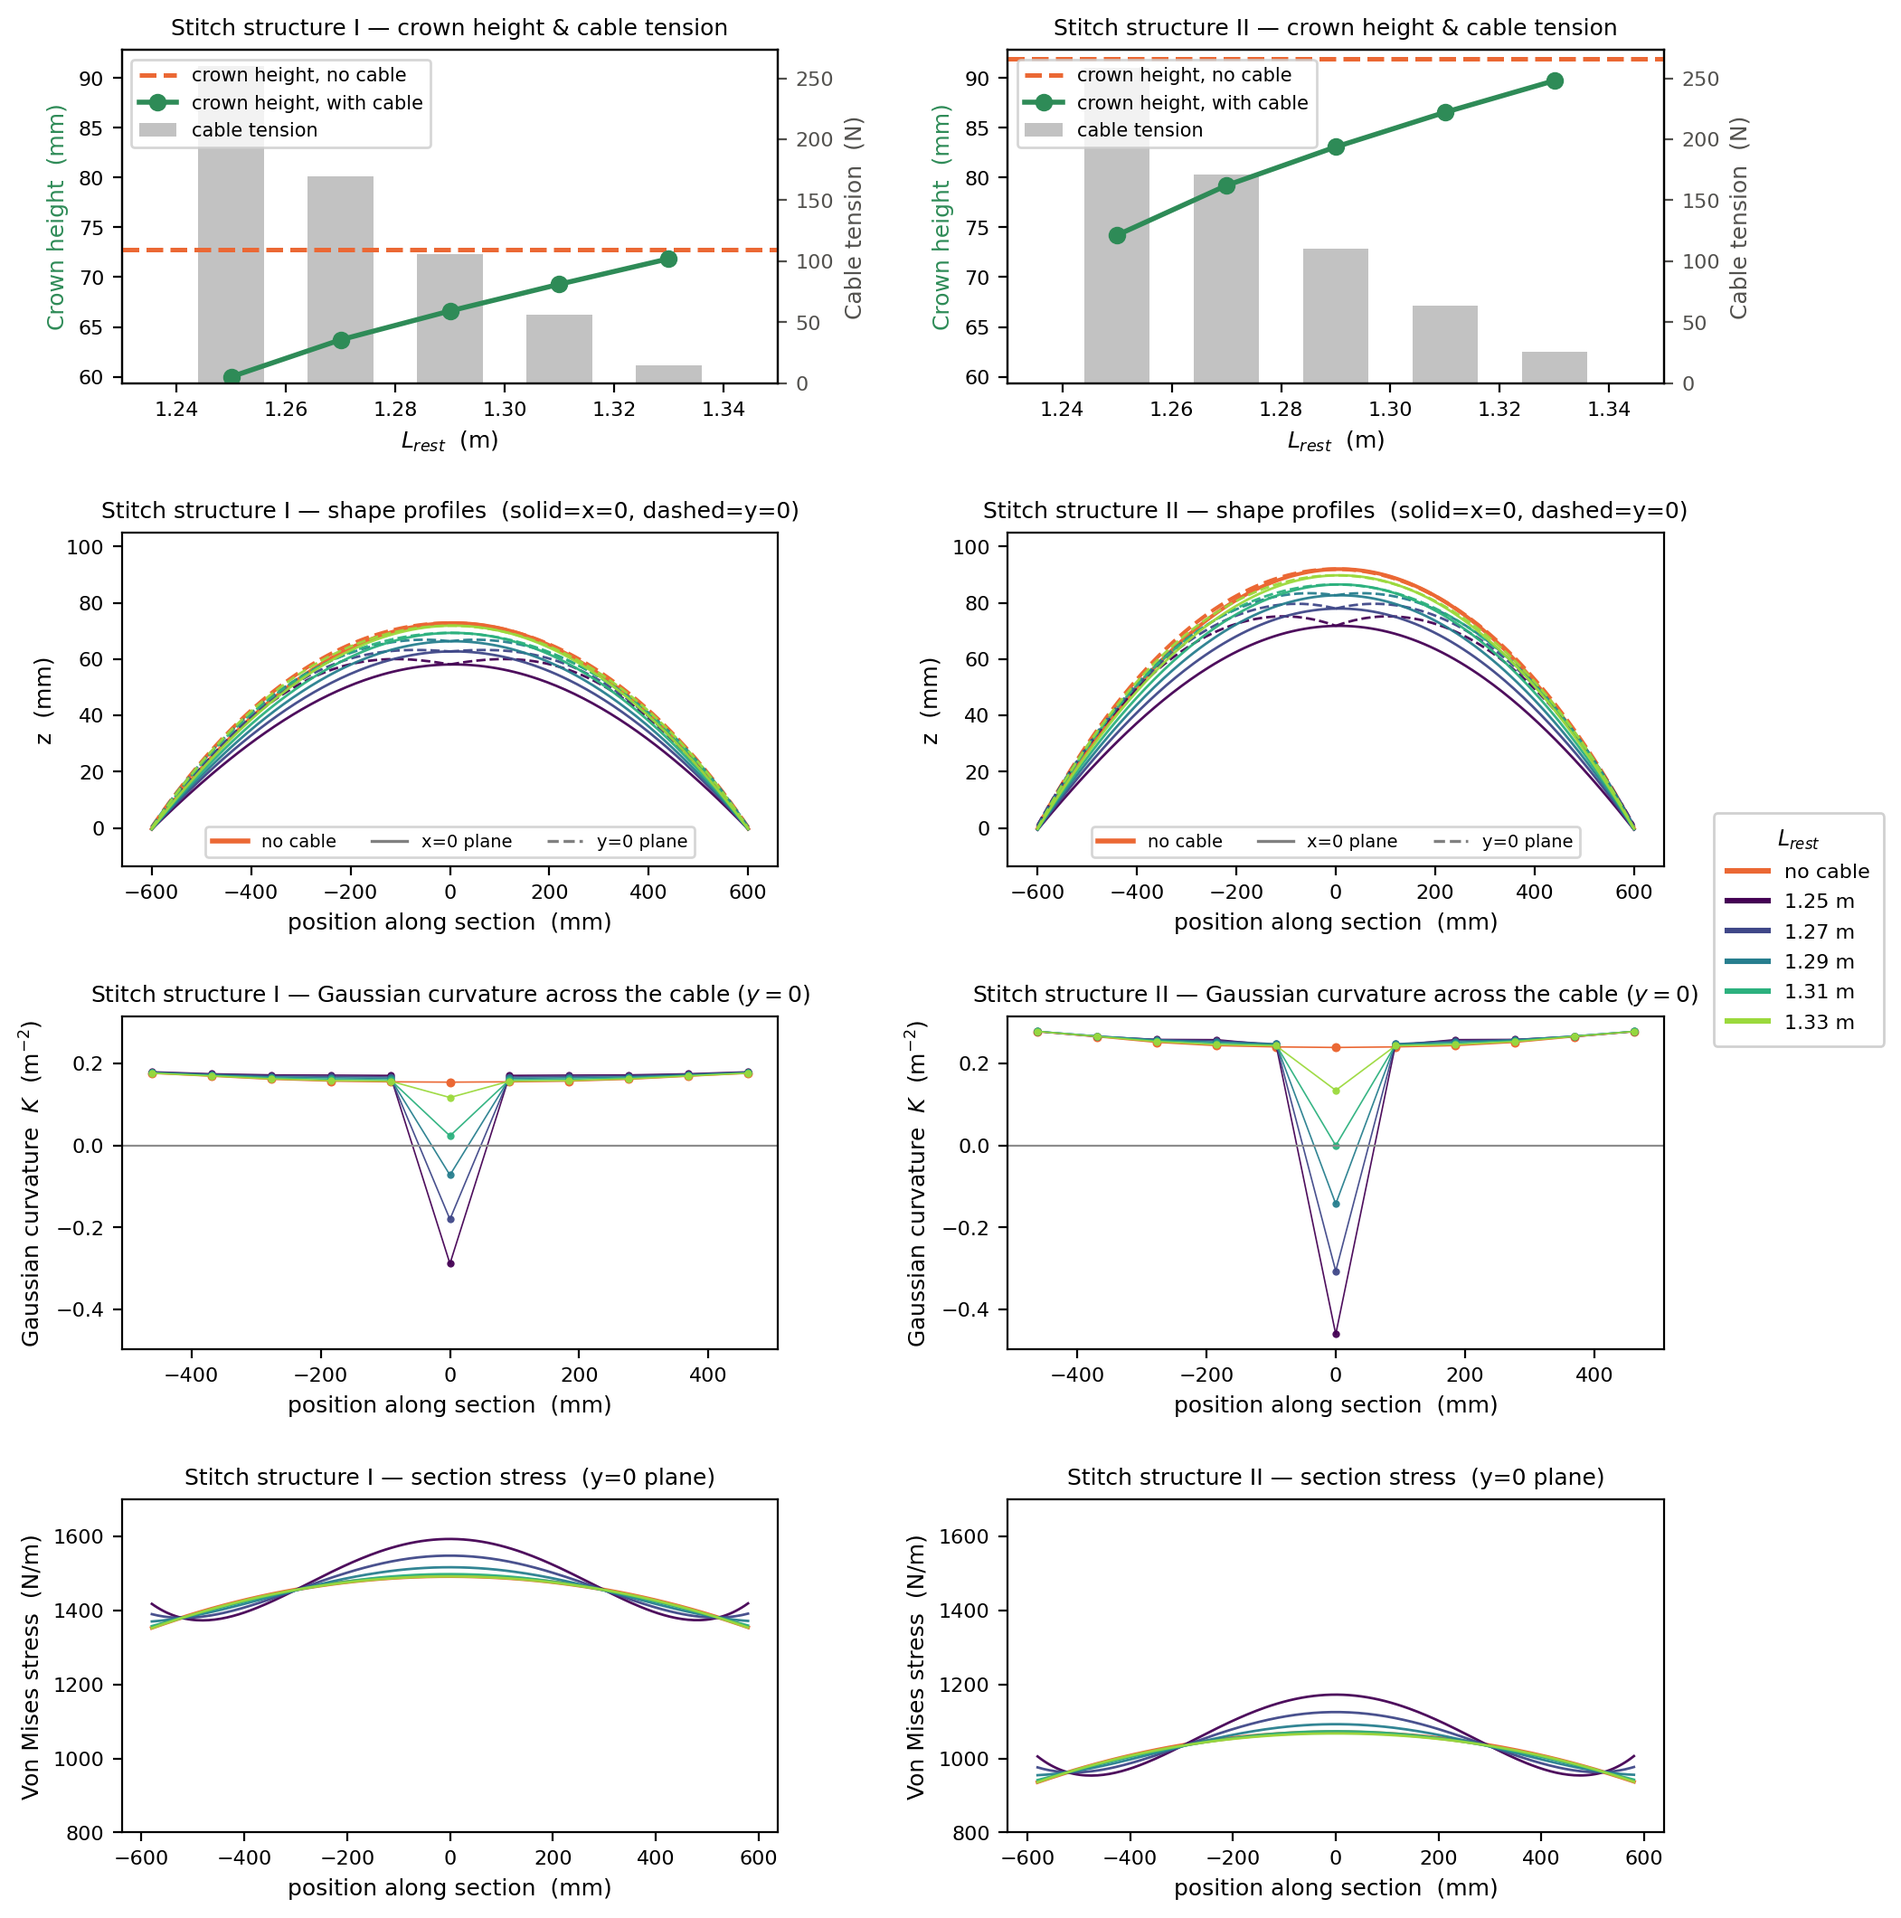
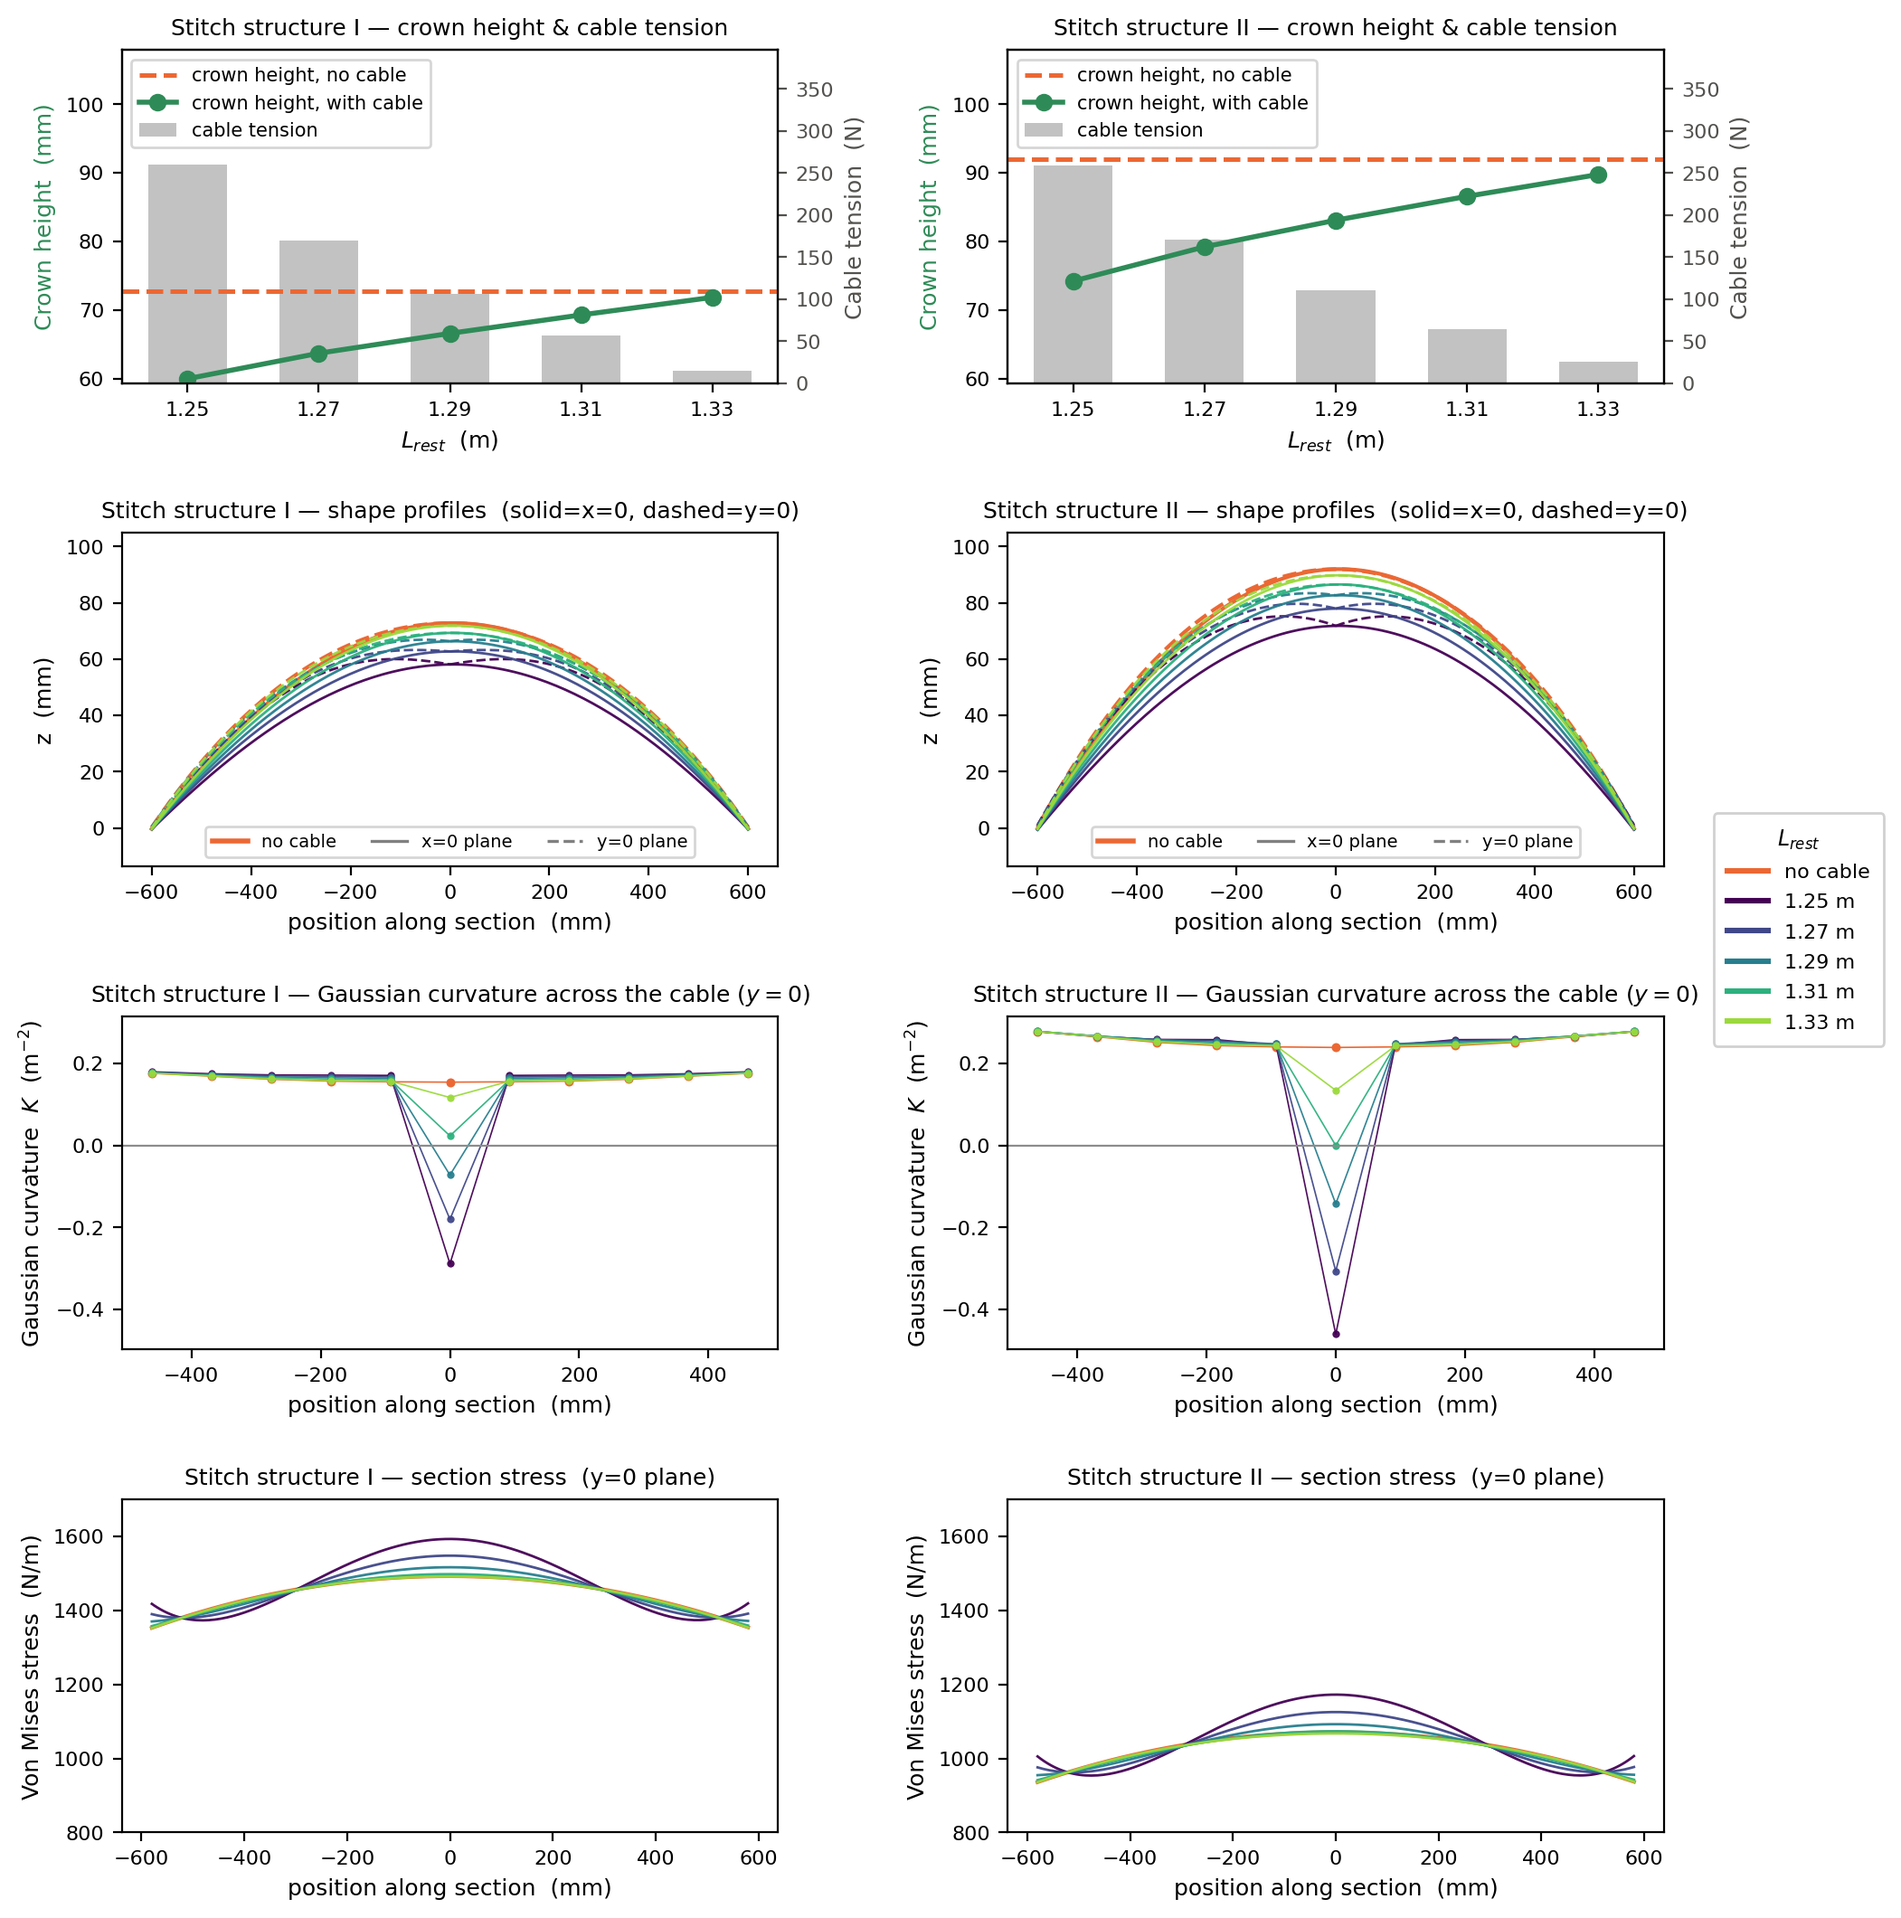
Figure 7.12: L_rest ticks on the simulated lengths (1.25-1.33 m); row-0 headroom for the legend

diff --git a/sensitivity_analysis/plot_lrest_sweep.py b/sensitivity_analysis/plot_lrest_sweep.py
@@ -555,7 +555,10 @@ def plot_lrest_sweep(save=True):
         h1, l1 = ax0.get_legend_handles_labels()
         h2, l2 = ax0b.get_legend_handles_labels()
         ax0.legend(h1+h2, l1+l2, fontsize=7.5, loc="upper left")
-        ax0.set_xlim(l_vals.min()-0.02, l_vals.max()+0.02)
+        # ticks on the simulated rest lengths, half a step of margin either side
+        ax0.set_xticks(l_sorted)
+        ax0.set_xticklabels([f"{v:.2f}" for v in l_sorted])
+        ax0.set_xlim(l_sorted.min() - 0.5 * spacing, l_sorted.max() + 0.5 * spacing)
 
         # ── Load section profiles for all cases ────────────────────────────────
         _set_len_colors(cable_rows["L_rest_m"].values)
@@ -700,6 +703,12 @@ def plot_lrest_sweep(save=True):
     for r in range(n_rows):
         _match_row([axes[r, c] for c in range(n_cols)])
     _match_row(twin_axes)      # row 0's cable-tension scale
+    # headroom in row 0 so the legend clears the tallest bar and the no-cable line
+    for c in range(n_cols):
+        lo, hi = axes[0, c].get_ylim()
+        axes[0, c].set_ylim(lo, hi + 0.45 * (hi - lo))
+        tlo, thi = twin_axes[c].get_ylim()
+        twin_axes[c].set_ylim(tlo, thi + 0.45 * (thi - tlo))
 
     # Row 3 (Gaussian curvature) keeps the shared limits _match_row already gave
     # it: K is signed and both signs are meaningful, so it must not be clipped.
